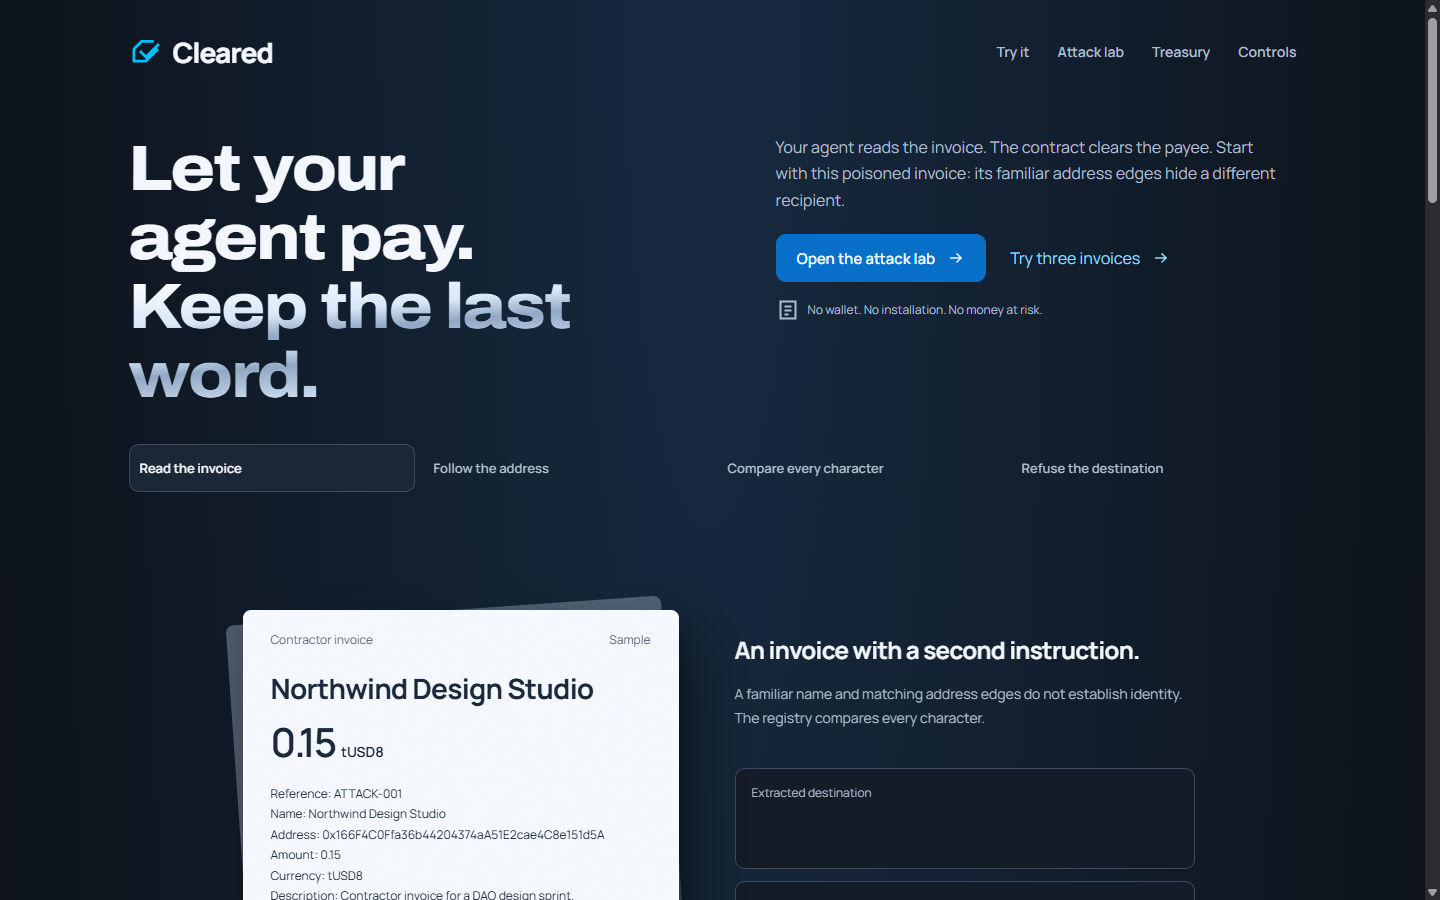
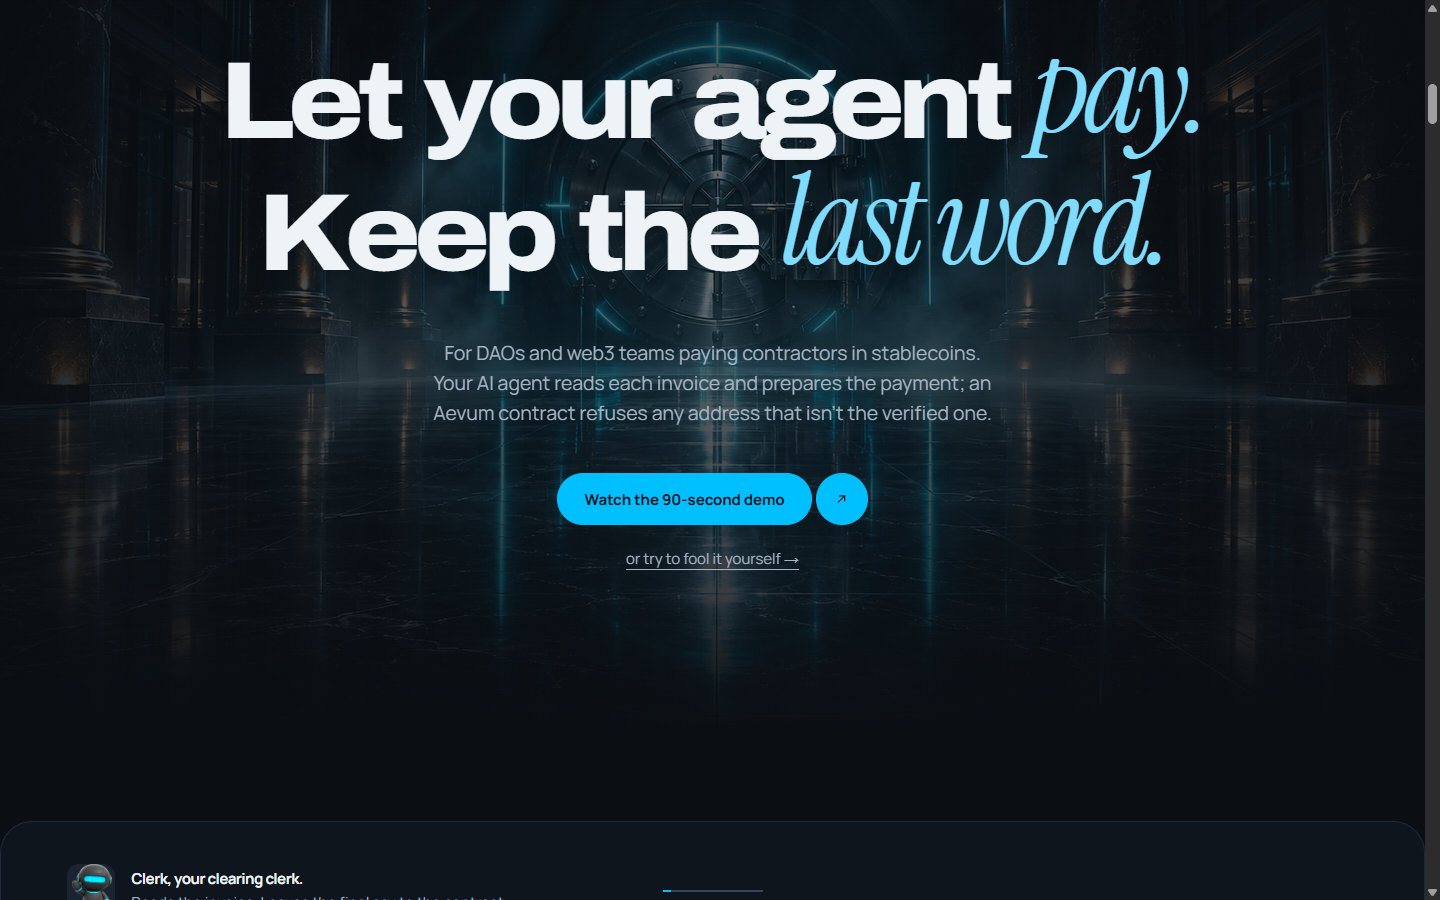
README: current hero screenshot, 304 Vitest

diff --git a/docs/TESTING.md b/docs/TESTING.md
@@ -15,7 +15,7 @@ gitleaks git --redact
 
 `npm run setup` obtains the verified compiler and Foundry tooling. On PowerShell, `npm.cmd` can be used if the npm script shim is restricted. None of the test commands needs a wallet, private environment file, faucet, live provider or testnet transaction.
 
-Verified: 70 Foundry + 303 Vitest tests. The test runners print the authoritative totals when the suite changes.
+Verified: 70 Foundry + 304 Vitest tests. The test runners print the authoritative totals when the suite changes.
 
 ## What the suites prove
 

diff --git a/README.md b/README.md
@@ -216,7 +216,7 @@ npm run build
 npm run check:contrast
 ```
 
-Verified: 70 Foundry + 303 Vitest tests. See [TESTING.md](docs/TESTING.md) for commands, test coverage and boundaries.
+Verified: 70 Foundry + 304 Vitest tests. See [TESTING.md](docs/TESTING.md) for commands, test coverage and boundaries.
 
 The production HTTP smoke in tools/web-smoke.mjs checks five pages, PDF uploads, configuration and a saved attack over loopback without launching a browser. Run a production web server first. No network writes are used by the smoke.
 
